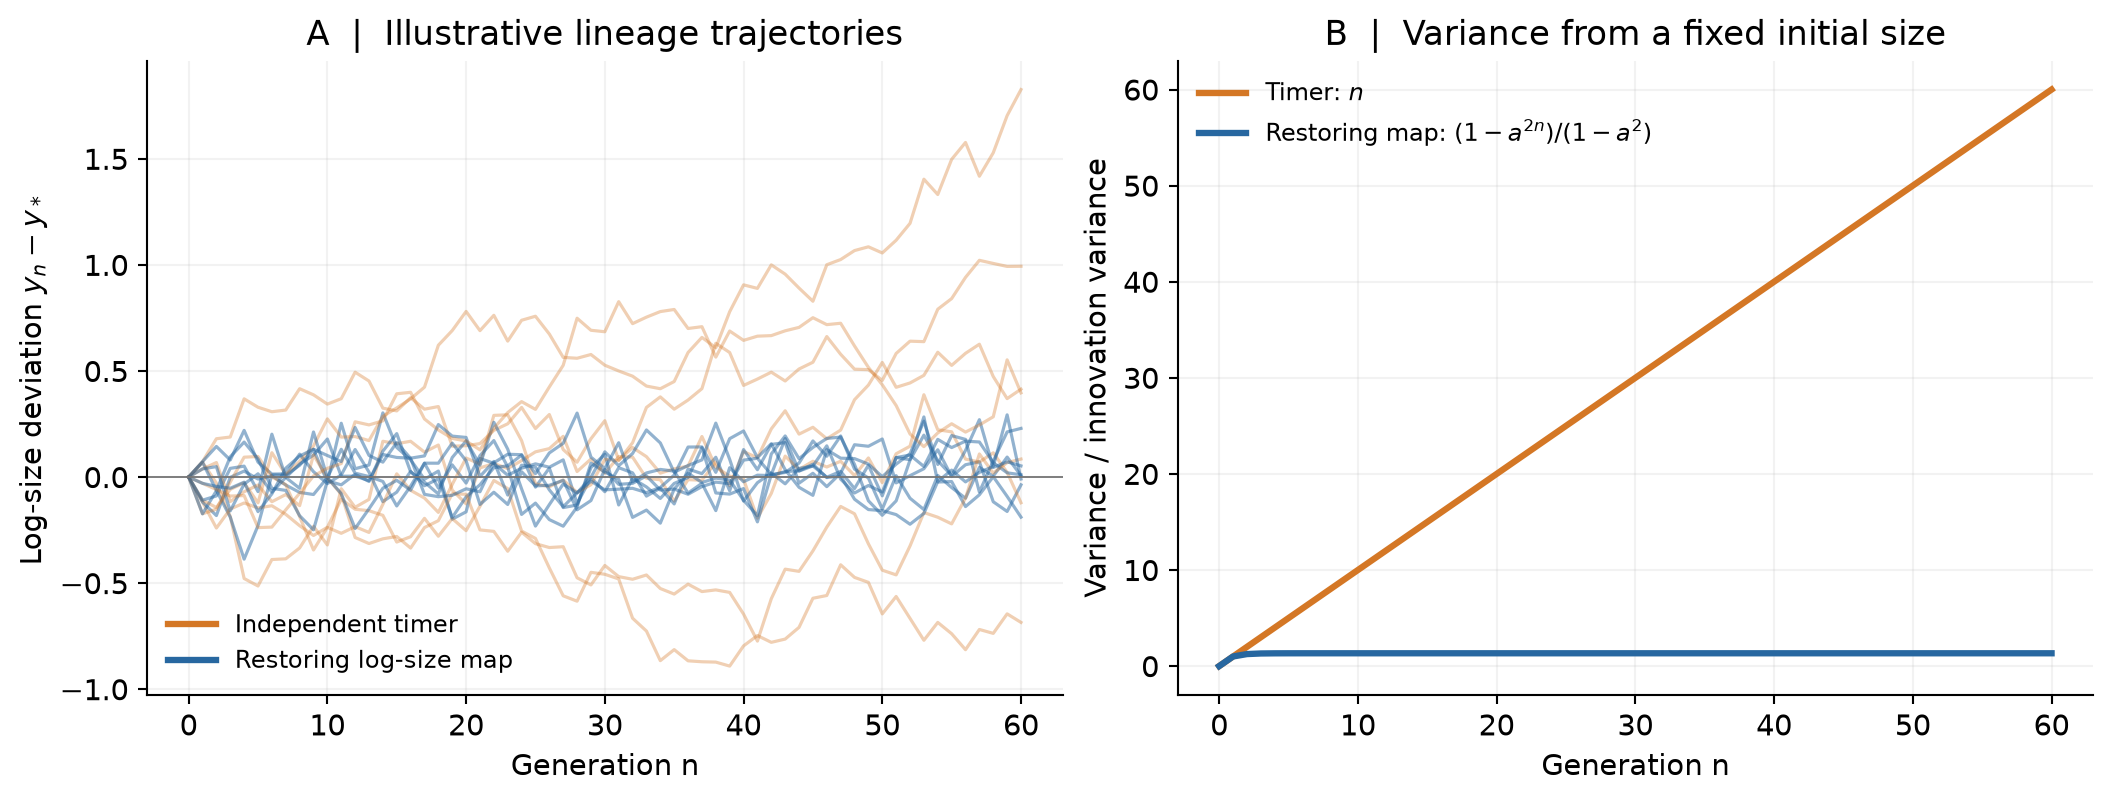
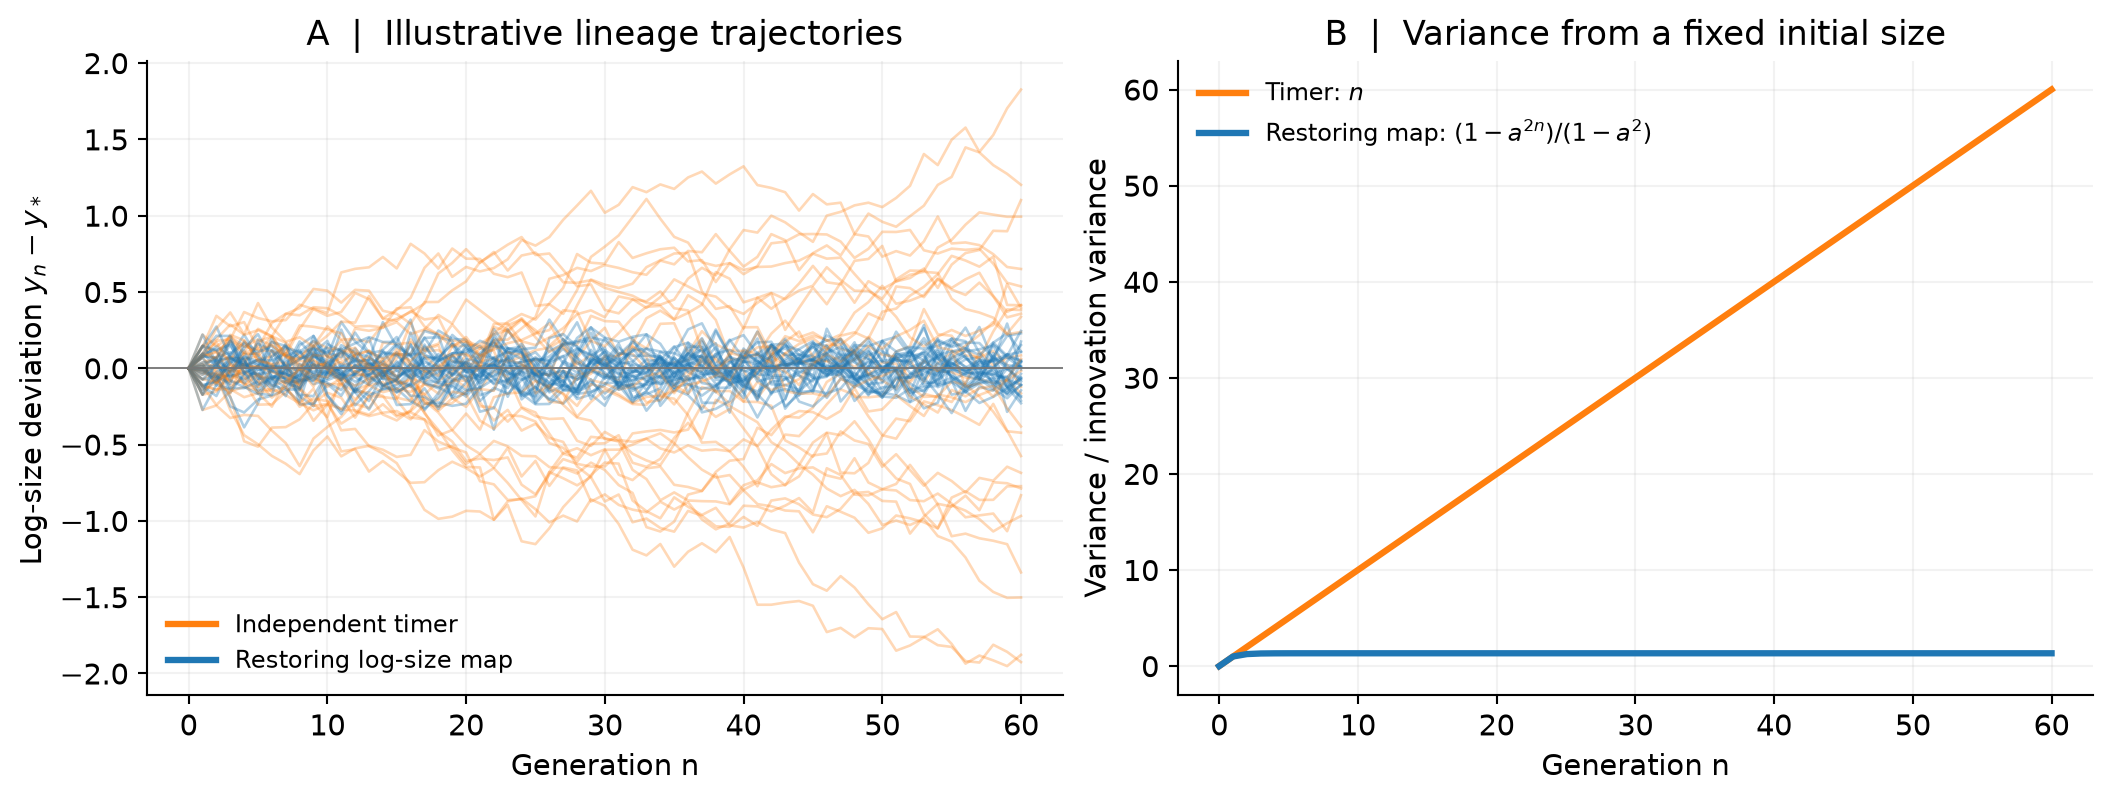
update

diff --git a/content/zh/notes/cell_cycle/figures/generate_figures.py b/content/zh/notes/cell_cycle/figures/generate_figures.py
@@ -34,22 +34,23 @@ def finish(ax, xlabel, ylabel):
 fig, axes = plt.subplots(1, 2, figsize=(11, 4.1), layout="constrained")
 g = np.arange(61)
 rng = np.random.default_rng(14)
-for j in range(7):
+timer_color, feedback_color = "tab:orange", "tab:blue"
+for j in range(30):
     eps = rng.normal(0, .10, 60)
     timer = np.r_[0, np.cumsum(eps)]
     controlled = np.zeros(61)
     for n in range(60):
         controlled[n+1] = .5 * controlled[n] + eps[n]
-    axes[0].plot(g, timer, color=ORANGE, alpha=.35, lw=1.2)
-    axes[0].plot(g, controlled, color=BLUE, alpha=.50, lw=1.2)
-axes[0].plot([], [], color=ORANGE, label="Independent timer")
-axes[0].plot([], [], color=BLUE, label="Restoring log-size map")
+    axes[0].plot(g, timer, color=timer_color, alpha=.30, lw=1.0)
+    axes[0].plot(g, controlled, color=feedback_color, alpha=.35, lw=1.0)
+axes[0].plot([], [], color=timer_color, label="Independent timer")
+axes[0].plot([], [], color=feedback_color, label="Restoring log-size map")
 axes[0].axhline(0, color="#777777", lw=.7)
 axes[0].set_title("A  |  Illustrative lineage trajectories")
 axes[0].legend(loc="lower left", fontsize=9)
 finish(axes[0], "Generation n", r"Log-size deviation $y_n-y_*$")
-axes[1].plot(g, g, color=ORANGE, label=r"Timer: $n$")
-axes[1].plot(g, (1-.5**(2*g))/(1-.5**2), color=BLUE,
+axes[1].plot(g, g, color=timer_color, label=r"Timer: $n$")
+axes[1].plot(g, (1-.5**(2*g))/(1-.5**2), color=feedback_color,
              label=r"Restoring map: $(1-a^{2n})/(1-a^2)$")
 axes[1].set_title("B  |  Variance from a fixed initial size")
 axes[1].legend(fontsize=9)

diff --git a/content/zh/notes/cell_cycle/cell_cycle_correlations_note.md b/content/zh/notes/cell_cycle/cell_cycle_correlations_note.md
@@ -74,7 +74,7 @@ $$
 v_n^{\mathrm d}=v_n e^{\lambda\tau_n}.
 $$
 
-Assuming **symmetric division**, each daughter receives half of the mother's volume:
+Assuming symmetric division, each daughter receives half of the mother's volume:
 
 $$
 v_{n+1}=\frac12 v_n e^{\lambda\tau_n}.\tag{1.1}
@@ -131,7 +131,7 @@ This gives a physical reason not to assume independent division times indiscrimi
 
 ![Single-cell microscopy and birth-size correlations testing timer and sizer predictions.](figures/taheri_araghi_2015_f1_highres.png)
 
-*Fig 2. Testing size-control strategies.* Original Figure 1 from [Taheri-Araghi et al., *Current Biology* (2015)](https://doi.org/10.1016/j.cub.2014.12.009). Focus on panel D: generation time decreases with birth size, whereas division size increases. These trends challenge a size-independent timer and a fixed-threshold sizer, respectively. Panels A–C provide microscopy and growth-condition context. Read alongside the timer instability in (1.4). Figure extracted at 360 dpi from the [author-hosted paper PDF](https://jun.ucsd.edu/files/publications/Sizecontrol_CurrBiol.pdf), preserving the original panels. Click the image to enlarge.
+*Fig 2. Testing size-control strategies.* Original Figure 1 from [Taheri-Araghi et al., *Current Biology* (2015)](https://doi.org/10.1016/j.cub.2014.12.009). Focus on panel D: generation time decreases with birth size, whereas division size increases. These trends challenge a size-independent timer and a fixed-threshold sizer, respectively. Panels A–C provide microscopy and growth-condition context. Read alongside the timer instability in (1.4).
 
 **Question to carry forward.** What does independent division-time noise predict for the *population*, even though it is inconsistent with size homeostasis?
 
@@ -148,7 +148,7 @@ Consider an idealized binary branching population:
 - The two daughters subsequently reproduce according to the same statistical rule.
 - There is no death, and no common environment that imposes correlated lifetimes on the whole population.
 
-Let $M(t)$ denote the expected number of living descendants, including the initial cell. The initial cell has either not yet divided by time $t$, or it divided at a time $\tau<t$. Therefore
+Let $M(t)$ denote the expected number of living descendants, including the initial cell. The initial cell has either not yet divided by time $t$, or it divided at a time $\tau\lt t$. Therefore
 
 $$
 M(t)=\underbrace{\mathbb P(\tau>t)}_{\text{initial cell survives}}
@@ -302,7 +302,7 @@ $$
 \bar\tau=\frac{\ln2}{\lambda}
 $$
 
-(provided $\mathbb E|\ln v|<\infty$). Comparing this identity with the independent-lifetime prediction, we appear to have a contradiction:
+(provided $\mathbb E|\ln v|\lt \infty$). Comparing this identity with the independent-lifetime prediction, we appear to have a contradiction:
 
 $$
 \underbrace{\Lambda>\frac{\ln2}{\bar\tau}=\lambda}_{\text{independent noisy lifetimes}}
@@ -550,7 +550,7 @@ $$
 \tau_s=\mu-\delta,
 \qquad
 \tau_\ell=\mu+\delta,
-\qquad 0<\delta<\mu.
+\qquad 0\lt \delta\lt \mu.
 $$
 
 The cell has a state $s$ (short) or $\ell$ (long). From one generation to the next, the state is retained with probability $p$:
@@ -564,7 +564,7 @@ p&1-p\\
 \tag{5.1}
 $$
 
-A cell in state $i$ lives for a time $\tau_i$ and then produces two daughters. Each daughter's state follows the transition matrix $P$, conditional on the mother's state. For $0<p<1$, the chronological stationary state probabilities are $(1/2,1/2)$, independent of $p$. Therefore
+A cell in state $i$ lives for a time $\tau_i$ and then produces two daughters. Each daughter's state follows the transition matrix $P$, conditional on the mother's state. For $0\lt p\lt 1$, the chronological stationary state probabilities are $(1/2,1/2)$, independent of $p$. Therefore
 
 $$
 \mathbb P(\tau=\tau_s)=\mathbb P(\tau=\tau_\ell)=\tfrac12,
@@ -611,7 +611,7 @@ $$
 C_\tau(k)=\delta^2 a^{|k|},\qquad a=2p-1.\tag{5.3}
 $$
 
-For $0<p<1$, $|a|<1$. Equation (4.2) then gives
+For $0\lt p\lt 1$, $|a|\lt 1$. Equation (4.2) then gives
 
 $$
 \begin{aligned}
@@ -625,7 +625,7 @@ $$
 
 Three regimes follow:
 
-- $p<1/2$: successive generation times tend to alternate; correlations are negative at odd lags.
+- $p\lt 1/2$: successive generation times tend to alternate; correlations are negative at odd lags.
 - $p=1/2$: generation times are independent; $D_\tau=\delta^2$.
 - $p>1/2$: states persist; $D_\tau>\delta^2$.
 
@@ -673,7 +673,7 @@ $$
 Z_n(\Lambda)=\boldsymbol\pi K_\Lambda^n\mathbf 1.
 $$
 
-For $0<p<1$, Perron–Frobenius theory gives its leading growth factor $\rho(K_\Lambda)^n$, where $\rho$ is the spectral radius. Equation (3.6) is therefore equivalent to the **exact eigenvalue condition**
+For $0\lt p\lt 1$, Perron–Frobenius theory gives its leading growth factor $\rho(K_\Lambda)^n$, where $\rho$ is the spectral radius. Equation (3.6) is therefore equivalent to the **exact eigenvalue condition**
 
 $$
 \rho(K_\Lambda)=1.\tag{5.7}
@@ -819,7 +819,7 @@ This is an autoregressive process of order one (AR(1)), the discrete-time counte
 
 ![Added-size measurements and conditional distribution collapse supporting the adder in bacteria.](figures/taheri_araghi_2015_f2_highres.png)
 
-*Fig 6. Experimental input to the adder map.* Original Figure 2 from [Taheri-Araghi et al. (2015)](https://doi.org/10.1016/j.cub.2014.12.009). Mean added size is approximately independent of birth size within each condition; conditional distributions also collapse after rescaling. Panels A–C cover *E. coli*, *B. subtilis*, and size mutants. This motivates (6.1), but does not establish independent added-size noise across generations. Figure extracted at 360 dpi from the [author-hosted paper PDF](https://jun.ucsd.edu/files/publications/Sizecontrol_CurrBiol.pdf), preserving the original panels. Click the image to enlarge.
+*Fig 6. Experimental input to the adder map.* Original Figure 2 from [Taheri-Araghi et al. (2015)](https://doi.org/10.1016/j.cub.2014.12.009). Mean added size is approximately independent of birth size within each condition; conditional distributions also collapse after rescaling. Panels A–C cover *E. coli*, *B. subtilis*, and size mutants. This motivates (6.1), but does not establish independent added-size noise across generations.
 
 ### 6.2 Exact stationary variance
 
@@ -891,7 +891,7 @@ The important point is not merely the numerical agreement: a deterministic resto
 
 ![Adder predictions and experimental relaxation of initially small and large birth sizes.](figures/taheri_araghi_2015_f3_highres.png)
 
-*Fig 7. Observed return toward the stationary birth size.* Original Figure 3 from [Taheri-Araghi et al. (2015)](https://doi.org/10.1016/j.cub.2014.12.009). Panel A predicts convergence under constant added size; panels B and C compare with *E. coli* and *B. subtilis*. This illustrates the restoring factor in (6.4). Conditional mean relaxation and the stationary ACF (6.8) are related observables, but are distinct measurements. Figure extracted at 360 dpi from the [author-hosted paper PDF](https://jun.ucsd.edu/files/publications/Sizecontrol_CurrBiol.pdf), preserving the original panels. Click the image to enlarge.
+*Fig 7. Observed return toward the stationary birth size.* Original Figure 3 from [Taheri-Araghi et al. (2015)](https://doi.org/10.1016/j.cub.2014.12.009). Panel A predicts convergence under constant added size; panels B and C compare with *E. coli* and *B. subtilis*. This illustrates the restoring factor in (6.4). Conditional mean relaxation and the stationary ACF (6.8) are related observables, but are distinct measurements.
 
 ### 6.4 Connecting the adder to generation times
 
@@ -1055,7 +1055,7 @@ $$
 For a general stationary AR(1) process
 
 $$
-C_x(k)=\sigma_x^2 a^{|k|},\qquad 0<a<1,
+C_x(k)=\sigma_x^2 a^{|k|},\qquad 0\lt a\lt 1,
 $$
 
 we can compute the covariance of the differences explicitly. At lag zero,
@@ -1201,7 +1201,7 @@ Consider again
 
 $$
 x_{n+1}=a x_n+\xi_n,
-\qquad |a|<1,
+\qquad |a|\lt 1,
 $$
 
 with independent zero-mean noise of variance $\sigma_\xi^2$. In the stationary regime,
@@ -1270,7 +1270,7 @@ Notice that differencing may emphasize high-frequency fluctuations, even when th
 
 ### 7.4 An extra connection: the Markov model's spectrum
 
-For the two-state Markov model of Section 5, $C_\tau(k)=\delta^2a^{|k|}$, where $a=2p-1$. Summing the Fourier series for $|a|<1$ gives
+For the two-state Markov model of Section 5, $C_\tau(k)=\delta^2a^{|k|}$, where $a=2p-1$. Summing the Fourier series for $|a|\lt 1$ gives
 
 $$
 S_\tau(\omega)
@@ -1300,7 +1300,7 @@ The original slides motivate this question by juxtaposing adder fluctuations and
 
 ### 8.1 Relaxation is not oscillation
 
-An AR(1) model with $0<a<1$ has a single real positive eigenvalue $a$. Perturbations decay as $a^n$. Its normalized ACF is monotone:
+An AR(1) model with $0\lt a\lt 1$ has a single real positive eigenvalue $a$. Perturbations decay as $a^n$. Its normalized ACF is monotone:
 
 $$
 \rho_x(k)=a^{|k|}.
@@ -1308,7 +1308,7 @@ $$
 
 The spectrum has no isolated nonzero-frequency resonant mode. Random sample paths may visibly rise and fall, but this alone does not imply a periodic dynamical mechanism.
 
-If $-1<a<0$, the ACF alternates sign, $\rho_x(k)=a^{|k|}$, and the spectral maximum is at $\omega=\pi$, corresponding to a two-generation alternation. This already illustrates why the *sign and eigenstructure of feedback* matter more than the visual regularity of a noisy trace.
+If $-1\lt a\lt 0$, the ACF alternates sign, $\rho_x(k)=a^{|k|}$, and the spectral maximum is at $\omega=\pi$, corresponding to a two-generation alternation. This already illustrates why the *sign and eigenstructure of feedback* matter more than the visual regularity of a noisy trace.
 
 ### 8.2 A minimal model capable of damped oscillations
 
@@ -1316,8 +1316,8 @@ Introduce a delayed feedback term:
 
 $$
 x_{n+1}=2r\cos\omega_0\,x_n-r^2x_{n-1}+\xi_n,
-\qquad 0<r<1,
-\quad0<\omega_0<\pi.
+\qquad 0\lt r\lt 1,
+\quad0\lt \omega_0\lt \pi.
 \tag{8.1}
 $$
 
@@ -1533,7 +1533,7 @@ where $x_n$ is deviation of birth size from its stationary mean.
 | Adder | $1/2$ | Half the birth-size deviation is inherited |
 | Timer, linearized near a balanced size | $1$ | No restoring feedback; random-walk/neutral behavior |
 
-For $|a|<1$,
+For $|a|\lt 1$,
 
 $$
 \operatorname{Var}(x)=\frac{\operatorname{Var}(\xi)}{1-a^2},
@@ -1599,13 +1599,13 @@ and the sum no longer telescopes with one common prefactor. This is a natural ro
 
 ### Problem 1. What does it take to remove size memory?
 
-For $x_{n+1}=ax_n+\xi_n$, derive $\mathbb E[x_{n+k}\mid x_n]$, the stationary variance, and the autocorrelation function. Which values of $a$ produce homeostasis? What changes if $a<0$?
+For $x_{n+1}=ax_n+\xi_n$, derive $\mathbb E[x_{n+k}\mid x_n]$, the stationary variance, and the autocorrelation function. Which values of $a$ produce homeostasis? What changes if $a\lt 0$?
 
-**Answer sketch.** $\mathbb E[x_{n+k}\mid x_n]=a^kx_n$, $\operatorname{Var}(x)=\sigma_\xi^2/(1-a^2)$, and $\rho(k)=a^{|k|}$. Finite stationary variance requires $|a|<1$ for independent noise of finite nonzero variance. Negative $a$ leads to alternating-sign correlations.
+**Answer sketch.** $\mathbb E[x_{n+k}\mid x_n]=a^kx_n$, $\operatorname{Var}(x)=\sigma_\xi^2/(1-a^2)$, and $\rho(k)=a^{|k|}$. Finite stationary variance requires $|a|\lt 1$ for independent noise of finite nonzero variance. Negative $a$ leads to alternating-sign correlations.
 
 ### Problem 2. Correlation without changing a histogram
 
-Show explicitly that the two-state Markov model has marginal distribution $\tfrac12\delta_{\tau_s}+\tfrac12\delta_{\tau_\ell}$ for every $0<p<1$. Derive (5.3) and use it to estimate the growth-rate correction in (4.5). Why does that estimate break down as $p\to1^-$?
+Show explicitly that the two-state Markov model has marginal distribution $\tfrac12\delta_{\tau_s}+\tfrac12\delta_{\tau_\ell}$ for every $0\lt p\lt 1$. Derive (5.3) and use it to estimate the growth-rate correction in (4.5). Why does that estimate break down as $p\to1^-$?
 
 **Answer sketch.** The transition matrix is symmetric, so its stationary probabilities are $1/2,1/2$. Correlations decay as $(2p-1)^k$. Therefore $D_\tau=\delta^2p/(1-p)$. As $p\to1^-$, the correlation time diverges and weak-noise/truncated-cumulant expansions cease to be uniform; use the exact matrix condition instead.
 
